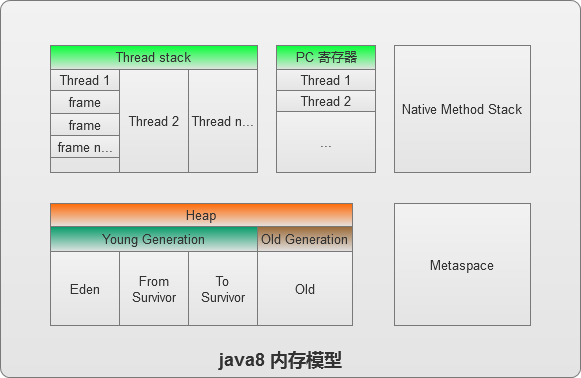
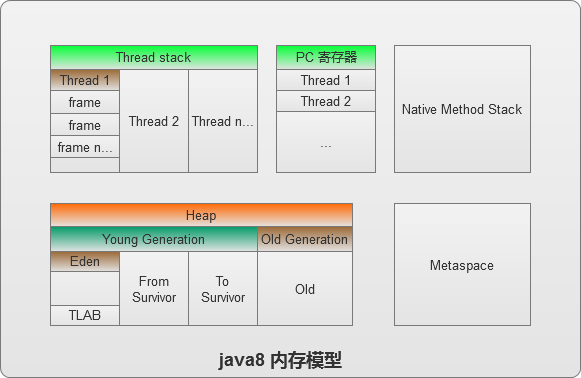
1

diff --git a/_posts/2017-06-27-java-memory.md b/_posts/2017-06-27-java-memory.md
@@ -52,6 +52,13 @@ tags: [jvm, 内存, GC]
 
 > `-XX:SurvivorRatio`: `Eden`与`Survivor`的比值，默认为`8`，表示`Eden`占`8/10`，两个`Survivor`各占`1/10`
 
+#### 5.3 TLAB
+
+`TLAB`: `Thread Local Allocation`，本地线程分配缓冲区，包含在`Eden`中，是一种快速分配的策略，能够提升内存分配的吞吐量，同时由于其是线程私有的，也可以避免一些非线程安全问题
+
+> `-XX:UseTLAB`，设置是否开启`TLAB`   
+> `-XX:TLABWasteTargetPercent`: 设置`TLAB`占用`Eden`空间百分比，默认为`1%`
+
 #### 6. 元空间
 
 `Metaspace`: 用于存放类信息等，`java7`之前称为`永久代`(`Permanant Generation`)
@@ -62,3 +69,7 @@ tags: [jvm, 内存, GC]
 #### 7. 永久代
 
 >`perm gen`(永久代)是`java7`以前的概念，用于存放`类信息`、`常量`、`静态变量`等，从`jdk7`开始，常量和静态变量已经转移到`heap`中了
+
+#### 附
+
+[java中的GC]({{site.url}}/2017/07/01/java-gc/)

diff --git a/_posts/2017-06-28-java-heap-out-of-memory-jvisualvm.md b/_posts/2017-06-28-java-heap-out-of-memory-jvisualvm.md
@@ -16,12 +16,16 @@ tags: [heap, oom, jvisualvm]
 年老代（Tenured)：年轻代中经过垃圾回收没有回收掉的对象将被Copy到年老代
 ```
 
+> 参考[java内存模型]({{site.url}}/2017/06/27/java-memory/)
+
 #### 2. 堆内存中的垃圾回收
 ```
 当年轻代内存满时，会引发一次普通GC，该GC仅回收年轻代。需要强调的时，年轻代满是指Eden代满，Survivor满不会引发GC
 当年老代满时会引发Full GC，Full GC将会同时回收年轻代、年老代
 当永久代满时也会引发Full GC，会导致Class、Method元信息的卸载
 ```
+
+> 参考[java中的GC]({{site.url}}/2017/07/01/java-gc/)
 
 #### 3. 堆内存大小设置
 ```
@@ -128,3 +132,8 @@ Process finished with exit code 1
 ```
 
 > 发生了`6`次普通`GC`和n次`Full GC`
+
+#### 5. 参考
+
+* [java内存模型]({{site.url}}/2017/06/27/java-memory/)
+* [java中的GC]({{site.url}}/2017/07/01/java-gc/)

diff --git a/_posts/2017-06-30-java-metaspace-out-of-memory.md b/_posts/2017-06-30-java-metaspace-out-of-memory.md
@@ -7,7 +7,7 @@ tags: [metaspace, oom, jvisualvm]
 
 > `Metaspace`(元空间)，是`jdk8`的概念，用于存放类的元信息，`jdk7`之前是属于`Perm gen`(永久区)
 
-#### 一个例子
+#### 1. 一个例子
 
 本例通过不断生成并加载新的类让元空间溢出
 ```java
@@ -44,3 +44,8 @@ Exception in thread "main" java.lang.OutOfMemoryError: Metaspace
 	at javassist.CtClass.toClass(CtClass.java:1079)
 	at com.mywork.mem.MetaspaceOutOfMenory.main(MetaspaceOutOfMenory.java:18)
 ```
+
+#### 2. 参考
+
+* [java内存模型]({{site.url}}/2017/06/27/java-memory/)
+* [java中的GC]({{site.url}}/2017/07/01/java-gc/)

diff --git a/_posts/2017-06-30-java-constant-out-of-memory.md b/_posts/2017-06-30-java-constant-out-of-memory.md
@@ -7,7 +7,7 @@ tags: [constant, oom, jvisualvm]
 
 > `jdk7`开始，常量池从永久代转移到了堆内存中
 
-#### 一个例子
+#### 1. 一个例子
 
 本例通过不断写入常量池让永久代溢出(`jdk7`之后是堆溢出)
 ```java
@@ -28,3 +28,8 @@ public class ConstantOutOfMemory {
 
 * `jdk6`中` -XX:MaxPermSize=10M` 异常：`perm gen out of memory`
 * `jdk7`中 `-Xms32M -Xmx32M` 异常：`heap space out of memory`
+
+#### 2. 参考
+
+* [java内存模型]({{site.url}}/2017/06/27/java-memory/)
+* [java中的GC]({{site.url}}/2017/07/01/java-gc/)

diff --git a/_posts/2017-06-29-java-stack-over-flow.md b/_posts/2017-06-29-java-stack-over-flow.md
@@ -45,3 +45,8 @@ public class StackOverFlow {
     }
 }
 ```
+
+#### 4. 参考
+
+* [java内存模型]({{site.url}}/2017/06/27/java-memory/)
+* [java中的GC]({{site.url}}/2017/07/01/java-gc/)
